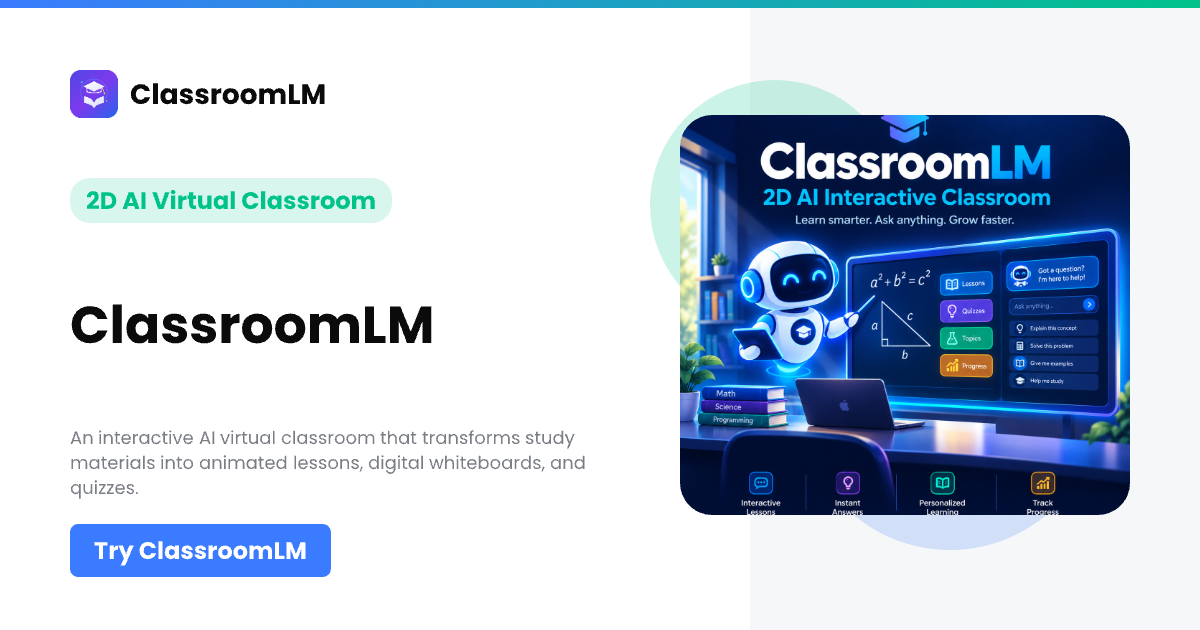
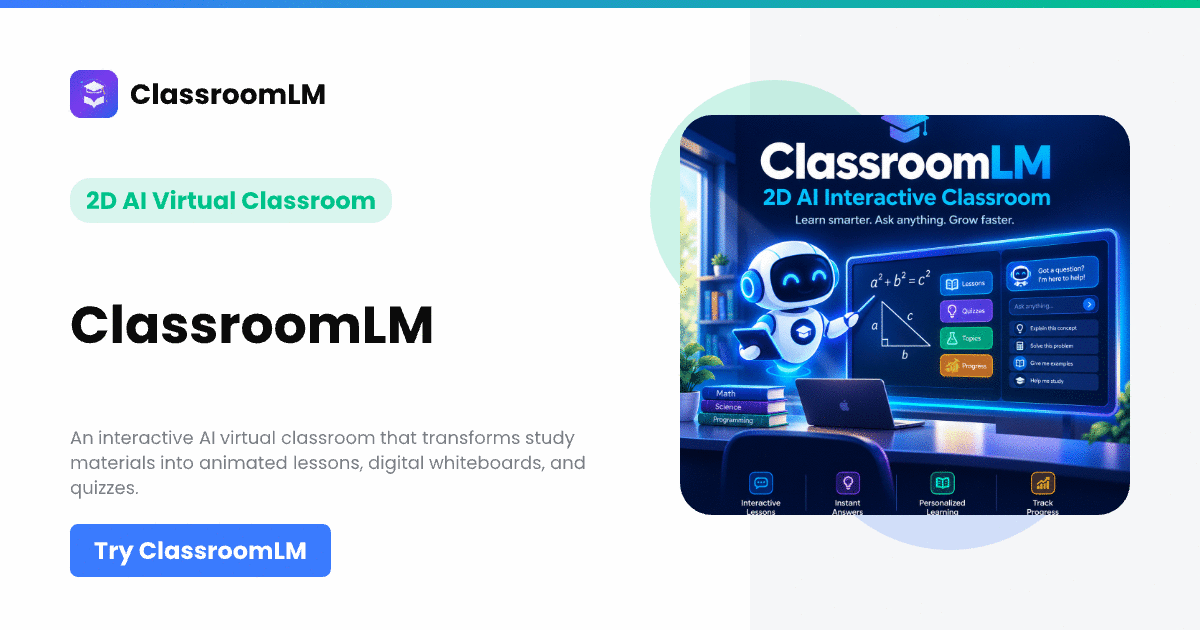
refactor: migrate OG image to JPEG
Replace the PNG Open Graph image with a JPEG version to optimize asset delivery and clean up redundant metadata tags.

diff --git a/index.html b/index.html
@@ -3,20 +3,15 @@
   <head>
     <meta charset="UTF-8" />
 
-    <!-- Open Graph (OG) Tags (Linked to both https://classroomlm.ai.studio/ and classroomlm.ai.studio) -->
+    <!-- Open Graph (OG) Tags -->
     <meta property="og:site_name" content="ClassroomLM" />
     <meta property="og:title" content="ClassroomLM - Interactive 2D AI Classroom" />
     <meta property="og:type" content="website" />
     <meta property="og:url" content="https://classroomlm.ai.studio/" />
-    <meta property="og:url" content="classroomlm.ai.studio" />
-    <meta property="og:see_also" content="https://classroomlm.ai.studio" />
-    <meta property="og:see_also" content="https://classroomlm.ai.studio/" />
-    <meta property="og:see_also" content="classroomlm.ai.studio" />
     <meta property="og:description" content="Transform study materials into animated lessons with an AI teacher, digital whiteboard, and quizzes. Try ClassroomLM!" />
-    <meta property="og:image" content="https://classroomlm.ai.studio/og-image.png" />
-    <meta property="og:image" content="/og-image.png" />
-    <meta property="og:image:secure_url" content="https://classroomlm.ai.studio/og-image.png" />
-    <meta property="og:image:type" content="image/png" />
+    <meta property="og:image" content="https://classroomlm.ai.studio/og-image.jpg" />
+    <meta property="og:image:secure_url" content="https://classroomlm.ai.studio/og-image.jpg" />
+    <meta property="og:image:type" content="image/jpeg" />
     <meta property="og:image:width" content="1200" />
     <meta property="og:image:height" content="630" />
     <meta property="og:image:alt" content="ClassroomLM - Interactive 2D AI Classroom" />
@@ -25,11 +20,9 @@
     <meta name="twitter:card" content="summary_large_image" />
     <meta name="twitter:domain" content="classroomlm.ai.studio" />
     <meta name="twitter:url" content="https://classroomlm.ai.studio/" />
-    <meta name="twitter:url" content="classroomlm.ai.studio" />
     <meta name="twitter:title" content="ClassroomLM - Interactive 2D AI Classroom" />
     <meta name="twitter:description" content="Transform study materials into animated lessons with an AI teacher, digital whiteboard, and quizzes. Try ClassroomLM!" />
-    <meta name="twitter:image" content="https://classroomlm.ai.studio/og-image.png" />
-    <meta name="twitter:image" content="/og-image.png" />
+    <meta name="twitter:image" content="https://classroomlm.ai.studio/og-image.jpg" />
     <meta name="twitter:image:alt" content="ClassroomLM - Interactive 2D AI Classroom" />
 
     <meta name="viewport" content="width=device-width, initial-scale=1.0, maximum-scale=1.0, user-scalable=no" />
@@ -78,7 +71,7 @@
         "https://classroomlm.ai.studio/"
       ],
       "description": "Transform study materials into animated lessons with an AI teacher, digital whiteboard, and quizzes. Try ClassroomLM!",
-      "image": "https://classroomlm.ai.studio/og-image.png",
+      "image": "https://classroomlm.ai.studio/og-image.jpg",
       "offers": {
         "@type": "Offer",
         "price": "0",
